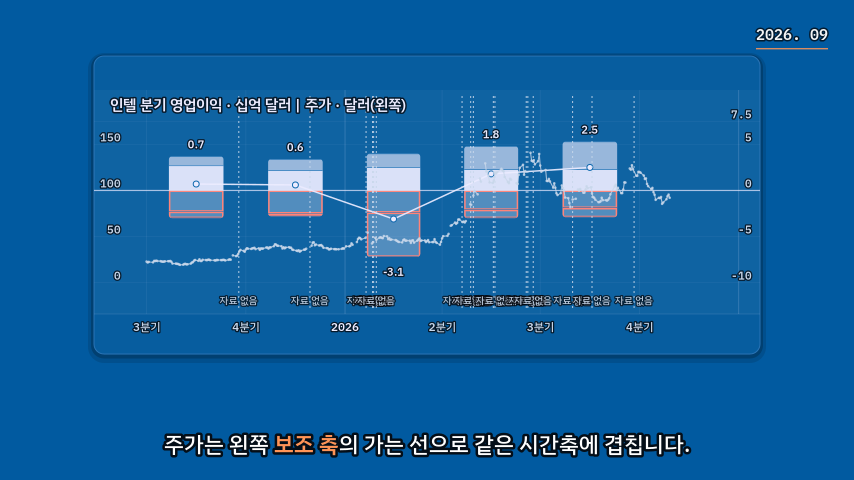
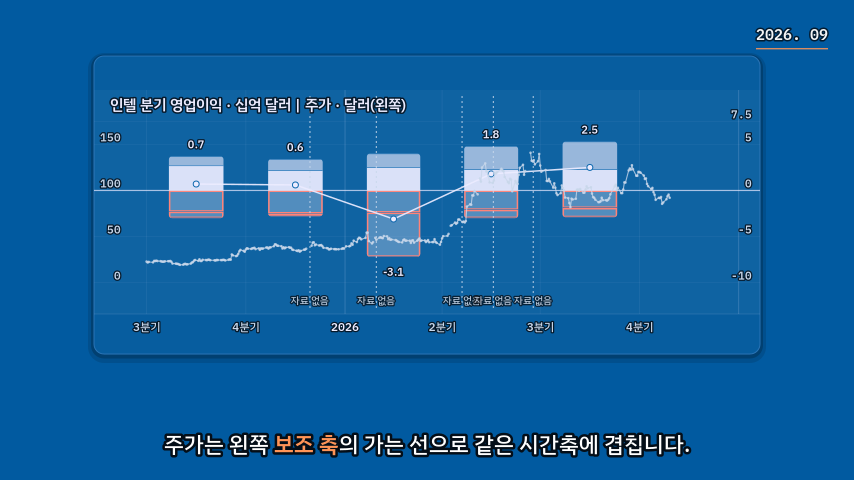
다층 40초 컷 — 안 A 시세(급변일 12일 cited) 반영

Changed region(s): [[0.5176, 0.5938, 0.7611, 0.6562], [0.3958, 0.5938, 0.4567, 0.6562], [0.2436, 0.5938, 0.3044, 0.6562]]

diff --git a/t2_multilayer_v4/README.md b/t2_multilayer_v4/README.md
@@ -1,5 +1,6 @@
 # 다층 아일랜드 40초 컷 — 안 A(인텔 시세 2025-07-01~) 반영
 
+- 레코드: 331거래일. 급변일 17일 중 12일은 글로벌이코노믹 원문으로 대조(cited), 5일은 missing.
 - 핀 라벨 "실적 발표일 · 10월 29일" 이 위쪽 2단에 놓였다(provenance pin_labels rows 2, dropped 0, collisions 0). 주가 선과 겹치지 않는다.
-- 새 문제: 급변일 17일 missing 마다 세로 점선 + "자료 없음" 라벨이 찍혀 아래쪽에서 라벨끼리 겹친다(p_0036.50·p_0040.00). R-0299 결정 요청.
+- 남은 문제: missing 5일마다 세로 점선 + "자료 없음" 라벨이 찍히고, 4~5월 두 라벨이 겹친다(p_0040.00). R-0302 결정 요청.
 - 첫 문장 사진(intc_hq_2008)은 Commons 429 로 다시 받지 못해 이번 렌더에서 뺐다(40초 컷과 무관).
